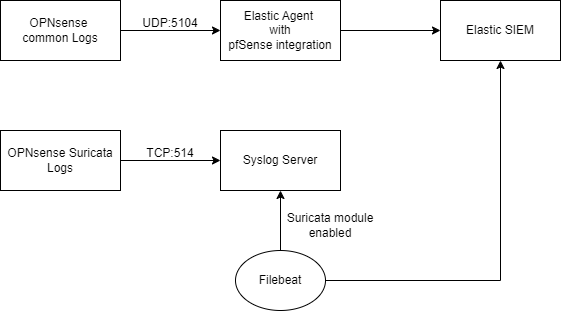
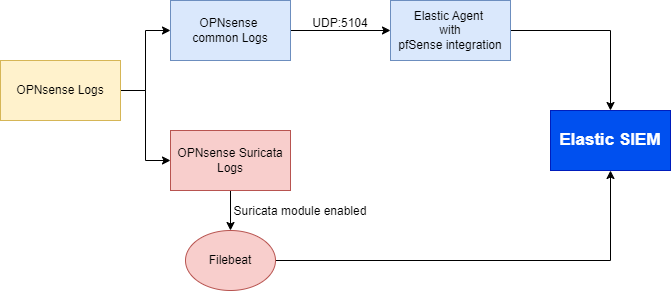
docs: re-config opnsense logging

diff --git a/deployment/elastic-siem/phase-1.md b/deployment/elastic-siem/phase-1.md
@@ -1,7 +1,5 @@
 <h1 align="center">
-
 Phase 1 - Initial Log Aggregation for Elastic SIEM
-
 </h1>
 
 ## Overview
@@ -19,7 +17,7 @@ This phase detailed initial phase of my SIEM progression - Aggregate logs from S
     - OpenCTI IoCs
 
 ## Setup
-*Note: Because the main goal of this phase is about collect as much logs as possible in the project into SIEM, so i do not refer about indexing, parsing, tuning logs,etc...*
+*Note: Because the main goal of this phase is about collect as much logs as possible in the project into SIEM, so i do not refer about indexing, parsing, tuning logs, etc*
 
 ### Collect logs from Firewall - OPNsense
 The very first data source is Firewall: Filter, VPN, DHCP traffic, etc. 
